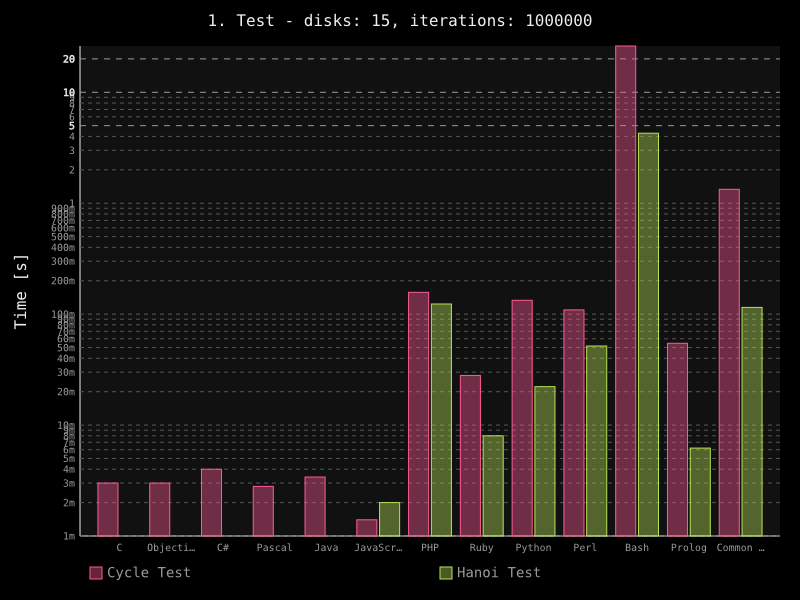
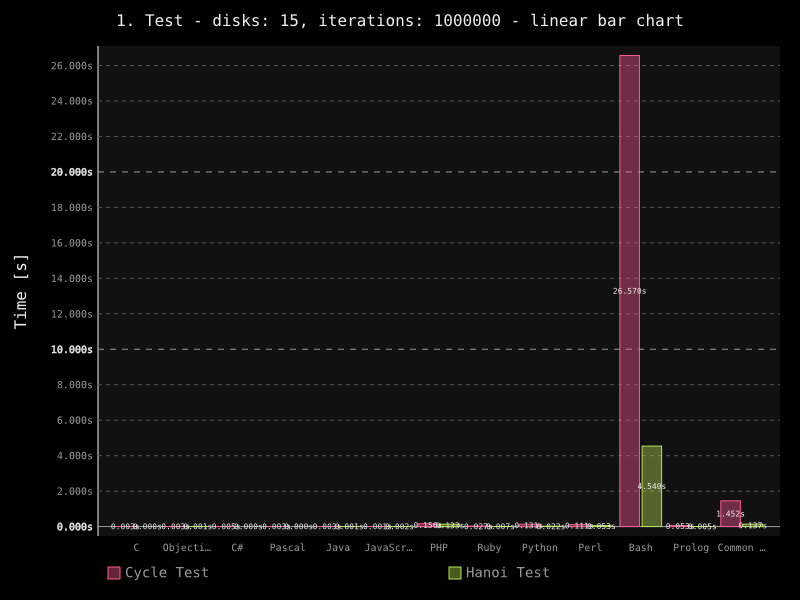
Changed graphs, added GPL license

Changed region(s): [[0.0625, 0.0, 0.9688, 0.99], [0.1875, 0.03, 0.2188, 0.06]]

diff --git a/evaluator/docu_generator.py b/evaluator/docu_generator.py
@@ -1,12 +1,25 @@
 # -*- coding: utf-8 -*-
 '''
-Created on 24.6.2014
+Programming Languages Benchmark Script.
+Copyright (C) 2014 Stefan Smihla
 
-@author: Morzeux
+This program is free software: you can redistribute it and/or modify
+it under the terms of the GNU General Public License as published by
+the Free Software Foundation, either version 3 of the License, or
+(at your option) any later version.
+
+This program is distributed in the hope that it will be useful,
+but WITHOUT ANY WARRANTY; without even the implied warranty of
+MERCHANTABILITY or FITNESS FOR A PARTICULAR PURPOSE. See the
+GNU General Public License for more details.
+
+You should have received a copy of the GNU General Public License
+along with this program. If not, see <http://www.gnu.org/licenses/>.
 '''
 
 import pygal
 import os
+import copy
 from evaluator.languages import Language
 from evaluator import config as C
 
@@ -112,6 +125,27 @@ to construct tables and graphs.
 
 """
 
+    LICENCE = """
+## License
+```
+Programming Languages Benchmark Script.
+Copyright (C) 2014 Stefan Smihla
+
+This program is free software: you can redistribute it and/or modify
+it under the terms of the GNU General Public License as published by
+the Free Software Foundation, either version 3 of the License, or
+(at your option) any later version.
+
+This program is distributed in the hope that it will be useful,
+but WITHOUT ANY WARRANTY; without even the implied warranty of
+MERCHANTABILITY or FITNESS FOR A PARTICULAR PURPOSE. See the
+GNU General Public License for more details.
+
+You should have received a copy of the GNU General Public License
+along with this program. If not, see <http://www.gnu.org/licenses/>.
+```
+"""
+
     RESULTS_DIR = 'results'
 
     @classmethod
@@ -167,25 +201,23 @@ to construct tables and graphs.
                                                               test['disks'],
                                                               test['iters'])
 
-            bar_chart = pygal.Bar(print_values=False, logarithmic=True,
-                                  human_readable=True, legend_at_bottom=True)
-            bar_chart.title = title
+            bar_chart = pygal.Bar(legend_at_bottom=True,
+                                  value_formatter=lambda x: '%.3fs' % x)
+            bar_chart.title = '%s - linear bar chart' % title
             bar_chart.x_labels = [res[0] for res in test['results'] if res[1]]
             bar_chart.y_title = 'Time [s]'
             bar_chart.add('Cycle Test', [res[1]['avg_cycle'] \
                                          for res in test['results'] if res[1]])
             bar_chart.add('Hanoi Test', [res[1]['avg_hanoi'] \
                                          for res in test['results'] if res[1]])
-
-            box_plot = pygal.Box(print_values=False, legend_at_bottom=True)
-            box_plot.title = title
-            for res in test['results']:
-                if res[1]:
-                    box_plot.add(res[0], [res[1]['avg_cycle'],
-                                          res[1]['avg_hanoi']])
+            
+            log_bar_chart = copy.deepcopy(bar_chart)
+            log_bar_chart.title = '%s - logaritmic bar chart' % title
+            log_bar_chart.config.logarithmic=True
 
             graphs.append((cls.save_graph(bar_chart, 'bar_graph%d' % (i + 1)),
-                           cls.save_graph(box_plot, 'box_graph%d' % (i + 1))))
+                           cls.save_graph(log_bar_chart,
+                                          'log_bar_graph%d' % (i + 1))))
 
         return graphs
 
@@ -245,9 +277,10 @@ to construct tables and graphs.
 
         versions = cls.create_version_table(versions)
         system_info = cls.create_system_info_table(system_info)
-        text = '%s%s' % (cls.README_TEMPLATE % (system_info, versions,
+        text = '%s%s%s' % (cls.README_TEMPLATE % (system_info, versions,
                                                 C.EVALUATIONS, C.TIMEOUT),
-                         cls.build_results_section(results))
+                         cls.build_results_section(results),
+                         cls.LICENSE)
 
         with open('README.md', 'w') as flw:
             flw.write(text)

diff --git a/tester.py b/tester.py
@@ -1,7 +1,20 @@
+# -*- coding: utf-8 -*-
 '''
-Created on 8.6.2014
+Programming Languages Benchmark Script.
+Copyright (C) 2014 Stefan Smihla
 
-@author: Stefan Smihla
+This program is free software: you can redistribute it and/or modify
+it under the terms of the GNU General Public License as published by
+the Free Software Foundation, either version 3 of the License, or
+(at your option) any later version.
+
+This program is distributed in the hope that it will be useful,
+but WITHOUT ANY WARRANTY; without even the implied warranty of
+MERCHANTABILITY or FITNESS FOR A PARTICULAR PURPOSE. See the
+GNU General Public License for more details.
+
+You should have received a copy of the GNU General Public License
+along with this program. If not, see <http://www.gnu.org/licenses/>.
 '''
 
 from evaluator.evaluator import Evaluator
@@ -9,8 +22,20 @@ from evaluator.docu_generator import DocuGenerator
 from evaluator.languages import load_languages
 from evaluator import config as C
 
+def license():
+    return """
+Languages Benchmark Script Copyright (C) 2014 Stefan Smihla
+
+This program comes with ABSOLUTELY NO WARRANTY.
+This is free software, and you are welcome to redistribute it
+under certain conditions.
+""".strip()
+
 def main():
     """ Main tester class. """
+    print(license())
+    print('')
+
     languages = load_languages()
 
     versions = Evaluator.print_versions(languages)

diff --git a/evaluator/evaluator.py b/evaluator/evaluator.py
@@ -1,7 +1,20 @@
+# -*- coding: utf-8 -*-
 '''
-Created on 8.6.2014
+Programming Languages Benchmark Script.
+Copyright (C) 2014 Stefan Smihla
 
-@author: Stefan Smihla
+This program is free software: you can redistribute it and/or modify
+it under the terms of the GNU General Public License as published by
+the Free Software Foundation, either version 3 of the License, or
+(at your option) any later version.
+
+This program is distributed in the hope that it will be useful,
+but WITHOUT ANY WARRANTY; without even the implied warranty of
+MERCHANTABILITY or FITNESS FOR A PARTICULAR PURPOSE. See the
+GNU General Public License for more details.
+
+You should have received a copy of the GNU General Public License
+along with this program. If not, see <http://www.gnu.org/licenses/>.
 '''
 
 import platform
@@ -21,7 +34,7 @@ class Evaluator():
     @classmethod
     def _compute_average(cls, values):
         """ Computes average value. """
-        return sum(values) / len(values)
+        return int((sum(values) / len(values)) * 1000) / 1000
 
     @classmethod
     def _compute_deviation(cls, values, average):
@@ -154,7 +167,6 @@ class Evaluator():
                                                  results[-1]['results']))
             print('')
         return results
-
 
     @classmethod
     def cleanup(cls, languages):

diff --git a/evaluator/config.py b/evaluator/config.py
@@ -1,8 +1,22 @@
+# -*- coding: utf-8 -*-
 '''
-Created on Jun 20, 2014
+Programming Languages Benchmark Script.
+Copyright (C) 2014 Stefan Smihla
 
-@author: Stefan Smihla
+This program is free software: you can redistribute it and/or modify
+it under the terms of the GNU General Public License as published by
+the Free Software Foundation, either version 3 of the License, or
+(at your option) any later version.
+
+This program is distributed in the hope that it will be useful,
+but WITHOUT ANY WARRANTY; without even the implied warranty of
+MERCHANTABILITY or FITNESS FOR A PARTICULAR PURPOSE. See the
+GNU General Public License for more details.
+
+You should have received a copy of the GNU General Public License
+along with this program. If not, see <http://www.gnu.org/licenses/>.
 '''
+
 import os, platform, shutil
 
 if platform.system() == 'Windows':

diff --git a/evaluator/languages.py b/evaluator/languages.py
@@ -1,7 +1,20 @@
+# -*- coding: utf-8 -*-
 '''
-Created on 8.6.2014
+Programming Languages Benchmark Script.
+Copyright (C) 2014 Stefan Smihla
 
-@author: Stefan Smihla
+This program is free software: you can redistribute it and/or modify
+it under the terms of the GNU General Public License as published by
+the Free Software Foundation, either version 3 of the License, or
+(at your option) any later version.
+
+This program is distributed in the hope that it will be useful,
+but WITHOUT ANY WARRANTY; without even the implied warranty of
+MERCHANTABILITY or FITNESS FOR A PARTICULAR PURPOSE. See the
+GNU General Public License for more details.
+
+You should have received a copy of the GNU General Public License
+along with this program. If not, see <http://www.gnu.org/licenses/>.
 '''
 
 import os, subprocess, signal

diff --git a/sources/python_test.py b/sources/python_test.py
@@ -1,7 +1,7 @@
 '''
 Created on 20.5.2014
 
-@author: Morzeux
+@author: Stefan Smihla
 '''
 
 import sys

diff --git a/README.md b/README.md
@@ -106,78 +106,78 @@ to construct tables and graphs.
     
 | Lang | Avg. cycles | Std. cycles | Avg. hanoi | Std. hanoi |
 | :-----: | :-----: | :-----: | :-----: | :-----: |
-| C | 0.003s | 0.00% | 0.000s | 0.00% |
+| C | 0.003s | 74.54% | 0.000s | 0.00% |
 | Objective-C | 0.003s | 0.00% | 0.001s | 0.00% |
-| C# | 0.004s | 0.00% | 0.000s | 0.00% |
-| Pascal | 0.003s | 57.14% | 0.001s | 0.00% |
-| Java | 0.003s | 14.41% | 0.001s | 0.00% |
-| JavaScript | 0.001s | 34.99% | 0.002s | 0.00% |
-| PHP | 0.157s | 3.05% | 0.123s | 0.83% |
-| Ruby | 0.028s | 3.91% | 0.008s | 0.00% |
-| Python | 0.133s | 8.63% | 0.022s | 3.37% |
-| Perl | 0.109s | 0.90% | 0.052s | 2.63% |
-| Bash | 26.132s | 3.06% | 4.274s | 2.33% |
-| Prolog | 0.055s | 10.53% | 0.006s | 40.03% |
-| Common Lisp | 1.334s | 0.58% | 0.115s | 0.95% |
+| C# | 0.005s | 40.00% | 0.000s | 0.00% |
+| Pascal | 0.003s | 29.81% | 0.000s | 0.00% |
+| Java | 0.003s | 21.08% | 0.001s | 0.00% |
+| JavaScript | 0.001s | 77.46% | 0.002s | 0.00% |
+| PHP | 0.156s | 1.77% | 0.133s | 11.64% |
+| Ruby | 0.027s | 3.31% | 0.007s | 11.07% |
+| Python | 0.131s | 6.14% | 0.022s | 4.55% |
+| Perl | 0.111s | 2.01% | 0.053s | 5.13% |
+| Bash | 26.570s | 3.87% | 4.540s | 14.15% |
+| Prolog | 0.053s | 8.00% | 0.005s | 54.41% |
+| Common Lisp | 1.452s | 4.52% | 0.137s | 16.48% |
 
 ![Bar graph results 1](results/bar_graph1.png)
 
-![Box graph results 1](results/box_graph1.png)
+![Box graph results 1](results/log_bar_graph1.png)
 
 #### Test 2. - Discs 20, Iterations 10000000
     
 | Lang | Avg. cycles | Std. cycles | Avg. hanoi | Std. hanoi |
 | :-----: | :-----: | :-----: | :-----: | :-----: |
-| C | 0.029s | 4.88% | 0.010s | 0.00% |
-| Objective-C | 0.028s | 1.72% | 0.017s | 2.82% |
-| C# | 0.044s | 0.00% | 0.010s | 7.34% |
-| Pascal | 0.029s | 4.08% | 0.011s | 10.53% |
-| Java | 0.010s | 4.71% | 0.007s | 11.00% |
-| JavaScript | 0.013s | 4.87% | 0.019s | 3.90% |
-| PHP | 1.556s | 4.22% | 4.056s | 1.74% |
-| Ruby | 0.303s | 11.13% | 0.250s | 1.06% |
-| Python | 1.290s | 1.80% | 0.710s | 2.13% |
-| Perl | 1.106s | 1.09% | 1.659s | 1.83% |
+| C | 0.027s | 4.68% | 0.010s | 4.47% |
+| Objective-C | 0.028s | 3.57% | 0.017s | 2.63% |
+| C# | 0.044s | 2.87% | 0.010s | 6.32% |
+| Pascal | 0.028s | 3.19% | 0.010s | 10.95% |
+| Java | 0.011s | 5.75% | 0.007s | 12.78% |
+| JavaScript | 0.012s | 9.13% | 0.019s | 4.08% |
+| PHP | 1.631s | 3.74% | 4.305s | 4.04% |
+| Ruby | 0.316s | 5.22% | 0.279s | 6.37% |
+| Python | 1.512s | 18.63% | 0.774s | 4.74% |
+| Perl | 1.141s | 1.08% | 1.674s | 1.48% |
 | Bash | Dead | Dead | Dead | Dead |
-| Prolog | 0.515s | 2.07% | 0.596s | 2.26% |
-| Common Lisp | 13.800s | 4.40% | 3.768s | 2.20% |
+| Prolog | 0.949s | 58.89% | 1.191s | 59.66% |
+| Common Lisp | 17.246s | 17.91% | 4.957s | 44.24% |
 
 ![Bar graph results 2](results/bar_graph2.png)
 
-![Box graph results 2](results/box_graph2.png)
+![Box graph results 2](results/log_bar_graph2.png)
 
 #### Test 3. - Discs 25, Iterations 100000000
     
 | Lang | Avg. cycles | Std. cycles | Avg. hanoi | Std. hanoi |
 | :-----: | :-----: | :-----: | :-----: | :-----: |
-| C | 0.286s | 3.26% | 0.318s | 1.17% |
-| Objective-C | 0.289s | 2.73% | 0.575s | 4.65% |
-| C# | 0.449s | 0.88% | 0.324s | 2.43% |
-| Pascal | 0.285s | 1.43% | 0.361s | 2.60% |
-| Java | 0.088s | 8.53% | 0.158s | 3.67% |
-| JavaScript | 0.124s | 1.86% | 0.562s | 1.75% |
+| C | 0.288s | 3.26% | 0.324s | 2.38% |
+| Objective-C | 0.283s | 1.55% | 0.551s | 3.85% |
+| C# | 0.447s | 0.69% | 0.324s | 4.87% |
+| Pascal | 0.287s | 1.69% | 0.367s | 2.00% |
+| Java | 0.084s | 1.06% | 0.158s | 1.52% |
+| JavaScript | 0.125s | 2.99% | 0.573s | 4.04% |
 | PHP | Dead | Dead | Dead | Dead |
-| Ruby | 2.867s | 1.24% | 8.076s | 2.41% |
-| Python | 12.871s | 0.47% | 22.799s | 1.41% |
-| Perl | 11.173s | 1.06% | 54.272s | 2.00% |
+| Ruby | 3.197s | 19.56% | 9.831s | 20.25% |
+| Python | 13.610s | 10.15% | 23.961s | 10.21% |
+| Perl | 12.690s | 17.53% | 63.436s | 13.12% |
 | Bash | Dead | Dead | Dead | Dead |
-| Prolog | 5.132s | 0.45% | 19.532s | 2.41% |
+| Prolog | 6.723s | 27.51% | 20.057s | 1.30% |
 | Common Lisp | Dead | Dead | Dead | Dead |
 
 ![Bar graph results 3](results/bar_graph3.png)
 
-![Box graph results 3](results/box_graph3.png)
+![Box graph results 3](results/log_bar_graph3.png)
 
 #### Test 4. - Discs 30, Iterations 1000000000
     
 | Lang | Avg. cycles | Std. cycles | Avg. hanoi | Std. hanoi |
 | :-----: | :-----: | :-----: | :-----: | :-----: |
-| C | 2.853s | 0.64% | 10.540s | 5.60% |
-| Objective-C | 2.868s | 0.55% | 17.418s | 0.90% |
-| C# | 4.558s | 1.38% | 10.255s | 0.12% |
-| Pascal | 2.894s | 1.89% | 11.476s | 0.75% |
-| Java | 0.852s | 2.01% | 4.618s | 0.82% |
-| JavaScript | 1.249s | 1.52% | 18.742s | 4.10% |
+| C | 2.881s | 2.00% | 11.838s | 14.88% |
+| Objective-C | 2.926s | 2.83% | 20.272s | 9.46% |
+| C# | 5.765s | 21.54% | 13.811s | 28.42% |
+| Pascal | 3.015s | 5.93% | 15.240s | 19.90% |
+| Java | 0.838s | 3.87% | 5.082s | 11.49% |
+| JavaScript | 1.368s | 12.25% | 21.462s | 8.63% |
 | PHP | Dead | Dead | Dead | Dead |
 | Ruby | Dead | Dead | Dead | Dead |
 | Python | Dead | Dead | Dead | Dead |
@@ -188,5 +188,23 @@ to construct tables and graphs.
 
 ![Bar graph results 4](results/bar_graph4.png)
 
-![Box graph results 4](results/box_graph4.png)
+![Box graph results 4](results/log_bar_graph4.png)
 
+## License
+```
+Programming Languages Benchmark Script.
+Copyright (C) 2014 Stefan Smihla
+
+This program is free software: you can redistribute it and/or modify
+it under the terms of the GNU General Public License as published by
+the Free Software Foundation, either version 3 of the License, or
+(at your option) any later version.
+
+This program is distributed in the hope that it will be useful,
+but WITHOUT ANY WARRANTY; without even the implied warranty of
+MERCHANTABILITY or FITNESS FOR A PARTICULAR PURPOSE. See the
+GNU General Public License for more details.
+
+You should have received a copy of the GNU General Public License
+along with this program. If not, see <http://www.gnu.org/licenses/>.
+```
